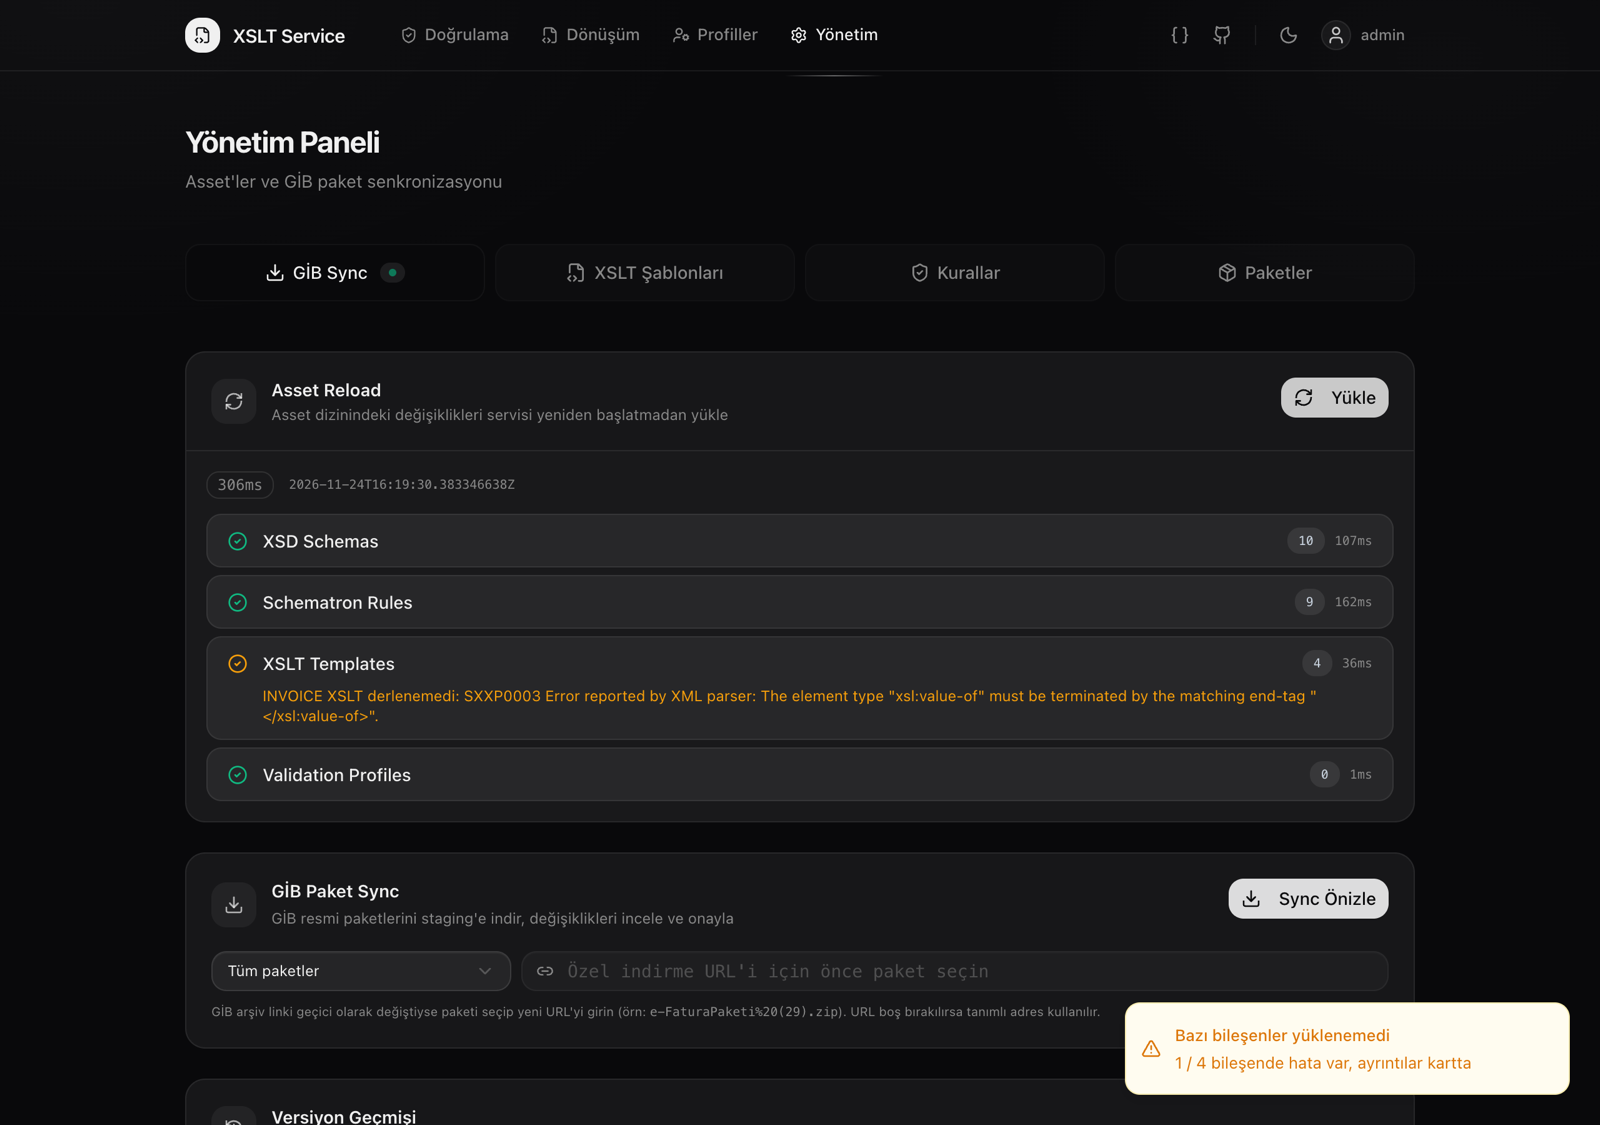
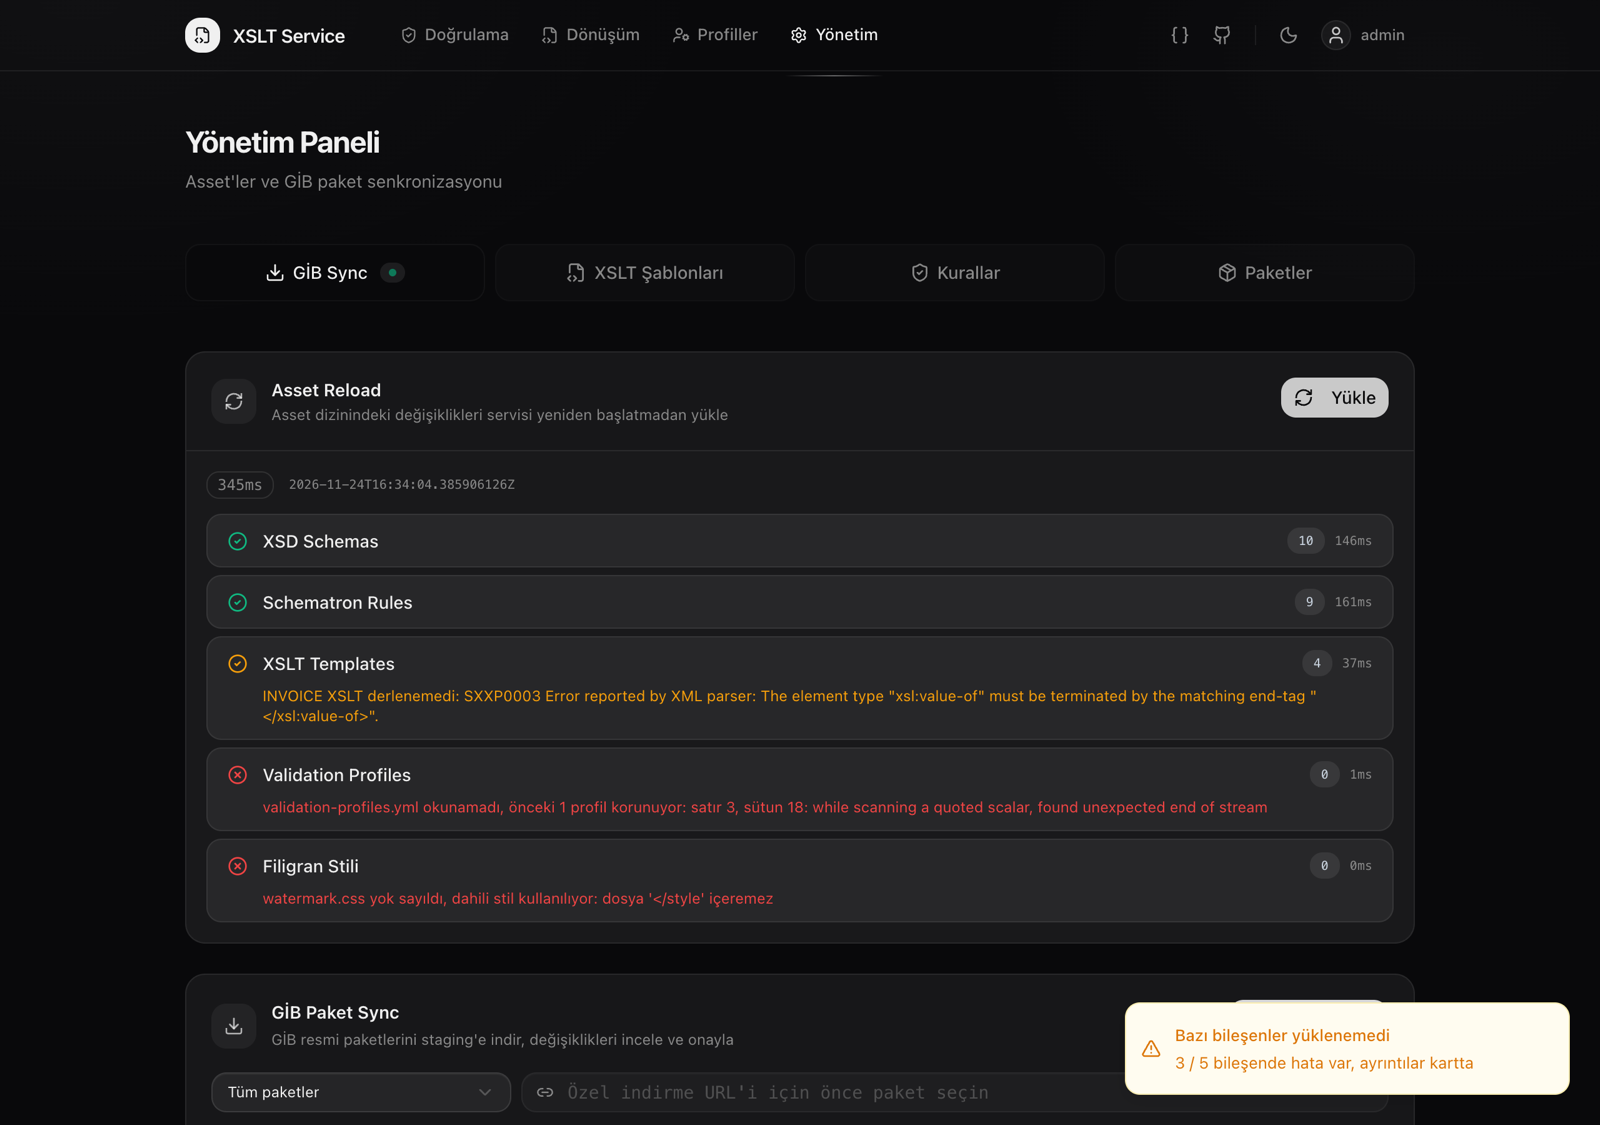
Document the admin reload card and refresh its screenshots
The guide lists the admin panel (Yönetim → GİB Sync → Asset Reload) as
a fourth way to apply a watermark.css change, and the README summary
mentions it. Both reload card screenshots are retaken on this branch,
so they show the "Filigran Stili" row: one with a valid watermark.css
and profiles file, one where watermark.css contains "</style>",
validation-profiles.yml has an unterminated quote and a default XSLT
does not compile, each error under its own row. SCREENSHOTS.md links
the error view.

diff --git a/docs/filigran.md b/docs/filigran.md
@@ -145,7 +145,7 @@ i.m.s.x.infrastructure.AssetRegistry -     ✓ Filigran Stili — 1 öğe yükle
 
 ### Sonradan ekleme ya da değiştirme
 
-Servisi yeniden başlatmanız gerekmez. Üç yol var:
+Servisi yeniden başlatmanız gerekmez. Dört yol var:
 
 1. **Dosya izleme** (varsayılan açık, `XSLT_ASSETS_WATCH_ENABLED=true`): dosyayı bağlı dizine koyun ya da değiştirin. Değişiklik bir iki saniye içinde uygulanır.
 2. **Çalışan konteynere kopyalama:** dizin bağlı değilse ya da Docker Compose'daki gibi adlandırılmış birim kullanılıyorsa:
@@ -154,7 +154,8 @@ Servisi yeniden başlatmanız gerekmez. Üç yol var:
    # Docker Compose ile
    docker compose cp watermark.css xslt-service:/opt/xslt-assets/watermark.css
    ```
-3. **Elle yeniden yükleme** (dosya izleme kapalıysa ya da hemen sonuç görmek için):
+3. **Yönetim paneli:** web arayüzünde *Yönetim → GİB Sync → Asset Reload → Yükle*. Her bileşen durumuyla listelenir; "Filigran Stili" satırında yüklenen dosya sayısı, hata varsa nedeni görünür.
+4. **Elle yeniden yükleme (API)** (dosya izleme kapalıysa ya da betikten çağırmak için):
    ```bash
    TOKEN=$(curl -s -X POST http://localhost:8080/v1/auth/login \
      -H 'Content-Type: application/json' \
@@ -268,4 +269,12 @@ Web arayüzünden alındı. Örnek veri: 240 kalemli bir sipariş listesi ve onu
 **Geçersiz dosya** — `</style><script>…` içeren bir `watermark.css` reddedildi (`Filigran Stili — FAILED: dosya '</style' içeremez`). Dahili stil kullanıldı ve önizlemeye script girmedi.
 
 ![Geçersiz watermark.css](screenshots/filigran-gecersiz-stil.png)
+
+**Yönetim panelinde reload** — *Yönetim → GİB Sync → Asset Reload*. Geçerli bir `watermark.css` ile "Filigran Stili" satırı `1` gösteriyor.
+
+![Asset Reload kartı](screenshots/admin-asset-reload.png)
+
+Aynı kartta hatalar: `</style>` içeren `watermark.css`, kapanmayan tırnaklı `validation-profiles.yml` ve bozuk bir varsayılan XSLT. Her bileşenin hatası kendi satırının altında görünüyor; bildirim "3 / 5 bileşende hata var" diyor.
+
+![Asset Reload kartında hatalar](screenshots/admin-asset-reload-hata.png)
 

diff --git a/README.md b/README.md
@@ -543,7 +543,7 @@ custom-assets/
 | `xslt.watermark.count` | `XSLT_WATERMARK_COUNT` | `3` | Satır başına filigran metni |
 | `xslt.watermark.rows` | `XSLT_WATERMARK_ROWS` | `200` | Satır sayısı (1–1000, 300 px arayla) |
 
-**Görünümü özelleştirme:** asset dizininin köküne `watermark.css` koyun. Dosya dahili stilden sonra eklenir; aynı seçicileri `!important` ile yazarak renk, boyut, açı ve aralığı değiştirirsiniz. Dosya açılışta okunur. Servis çalışırken eklenen ya da değiştirilen dosya, dosya izleyiciyle veya `POST /v1/admin/assets/reload` ile uygulanır.
+**Görünümü özelleştirme:** asset dizininin köküne `watermark.css` koyun. Dosya dahili stilden sonra eklenir; aynı seçicileri `!important` ile yazarak renk, boyut, açı ve aralığı değiştirirsiniz. Dosya açılışta okunur. Servis çalışırken eklenen ya da değiştirilen dosya; dosya izleyiciyle, yönetim panelindeki *Asset Reload* kartıyla veya `POST /v1/admin/assets/reload` ile uygulanır.
 
 ```css
 /* custom-assets/watermark.css */

diff --git a/SCREENSHOTS.md b/SCREENSHOTS.md
@@ -66,13 +66,19 @@ Prometheus metrikleri ile beslenen Grafana dashboard. Servis durumu, toplam doğ
 
 ---
 
-## Yayınlanmamış — Filigran
+## Yayınlanmamış — Filigran ve Asset Reload
 
 ### Filigranlı Önizleme
 
 Filigranlı dönüşümün web arayüzündeki önizlemesi. Diğer ekranlar (kaydırma, PDF sayfaları, `watermark.css` ile özel stil, geçersiz dosya): [Filigran Kullanım Kılavuzu → Ekran görüntüleri](docs/filigran.md#ekran-görüntüleri).
 
 ![Filigranlı önizleme](docs/screenshots/filigran-donusum-onizleme.png)
+
+### Asset Reload
+
+Yönetim → GİB Sync sekmesindeki *Asset Reload* kartı. Servisi yeniden başlatmadan asset'leri yükler; her bileşenin durumu, yüklenen sayısı ve hatası satırında görünür. Örnekte üç bileşende hata var: bozuk varsayılan XSLT (kısmi), kapanmayan tırnaklı `validation-profiles.yml` (önceki profiller korunuyor) ve `</style>` içeren `watermark.css`.
+
+![Asset Reload kartında hatalar](docs/screenshots/admin-asset-reload-hata.png)
 
 ---
 
